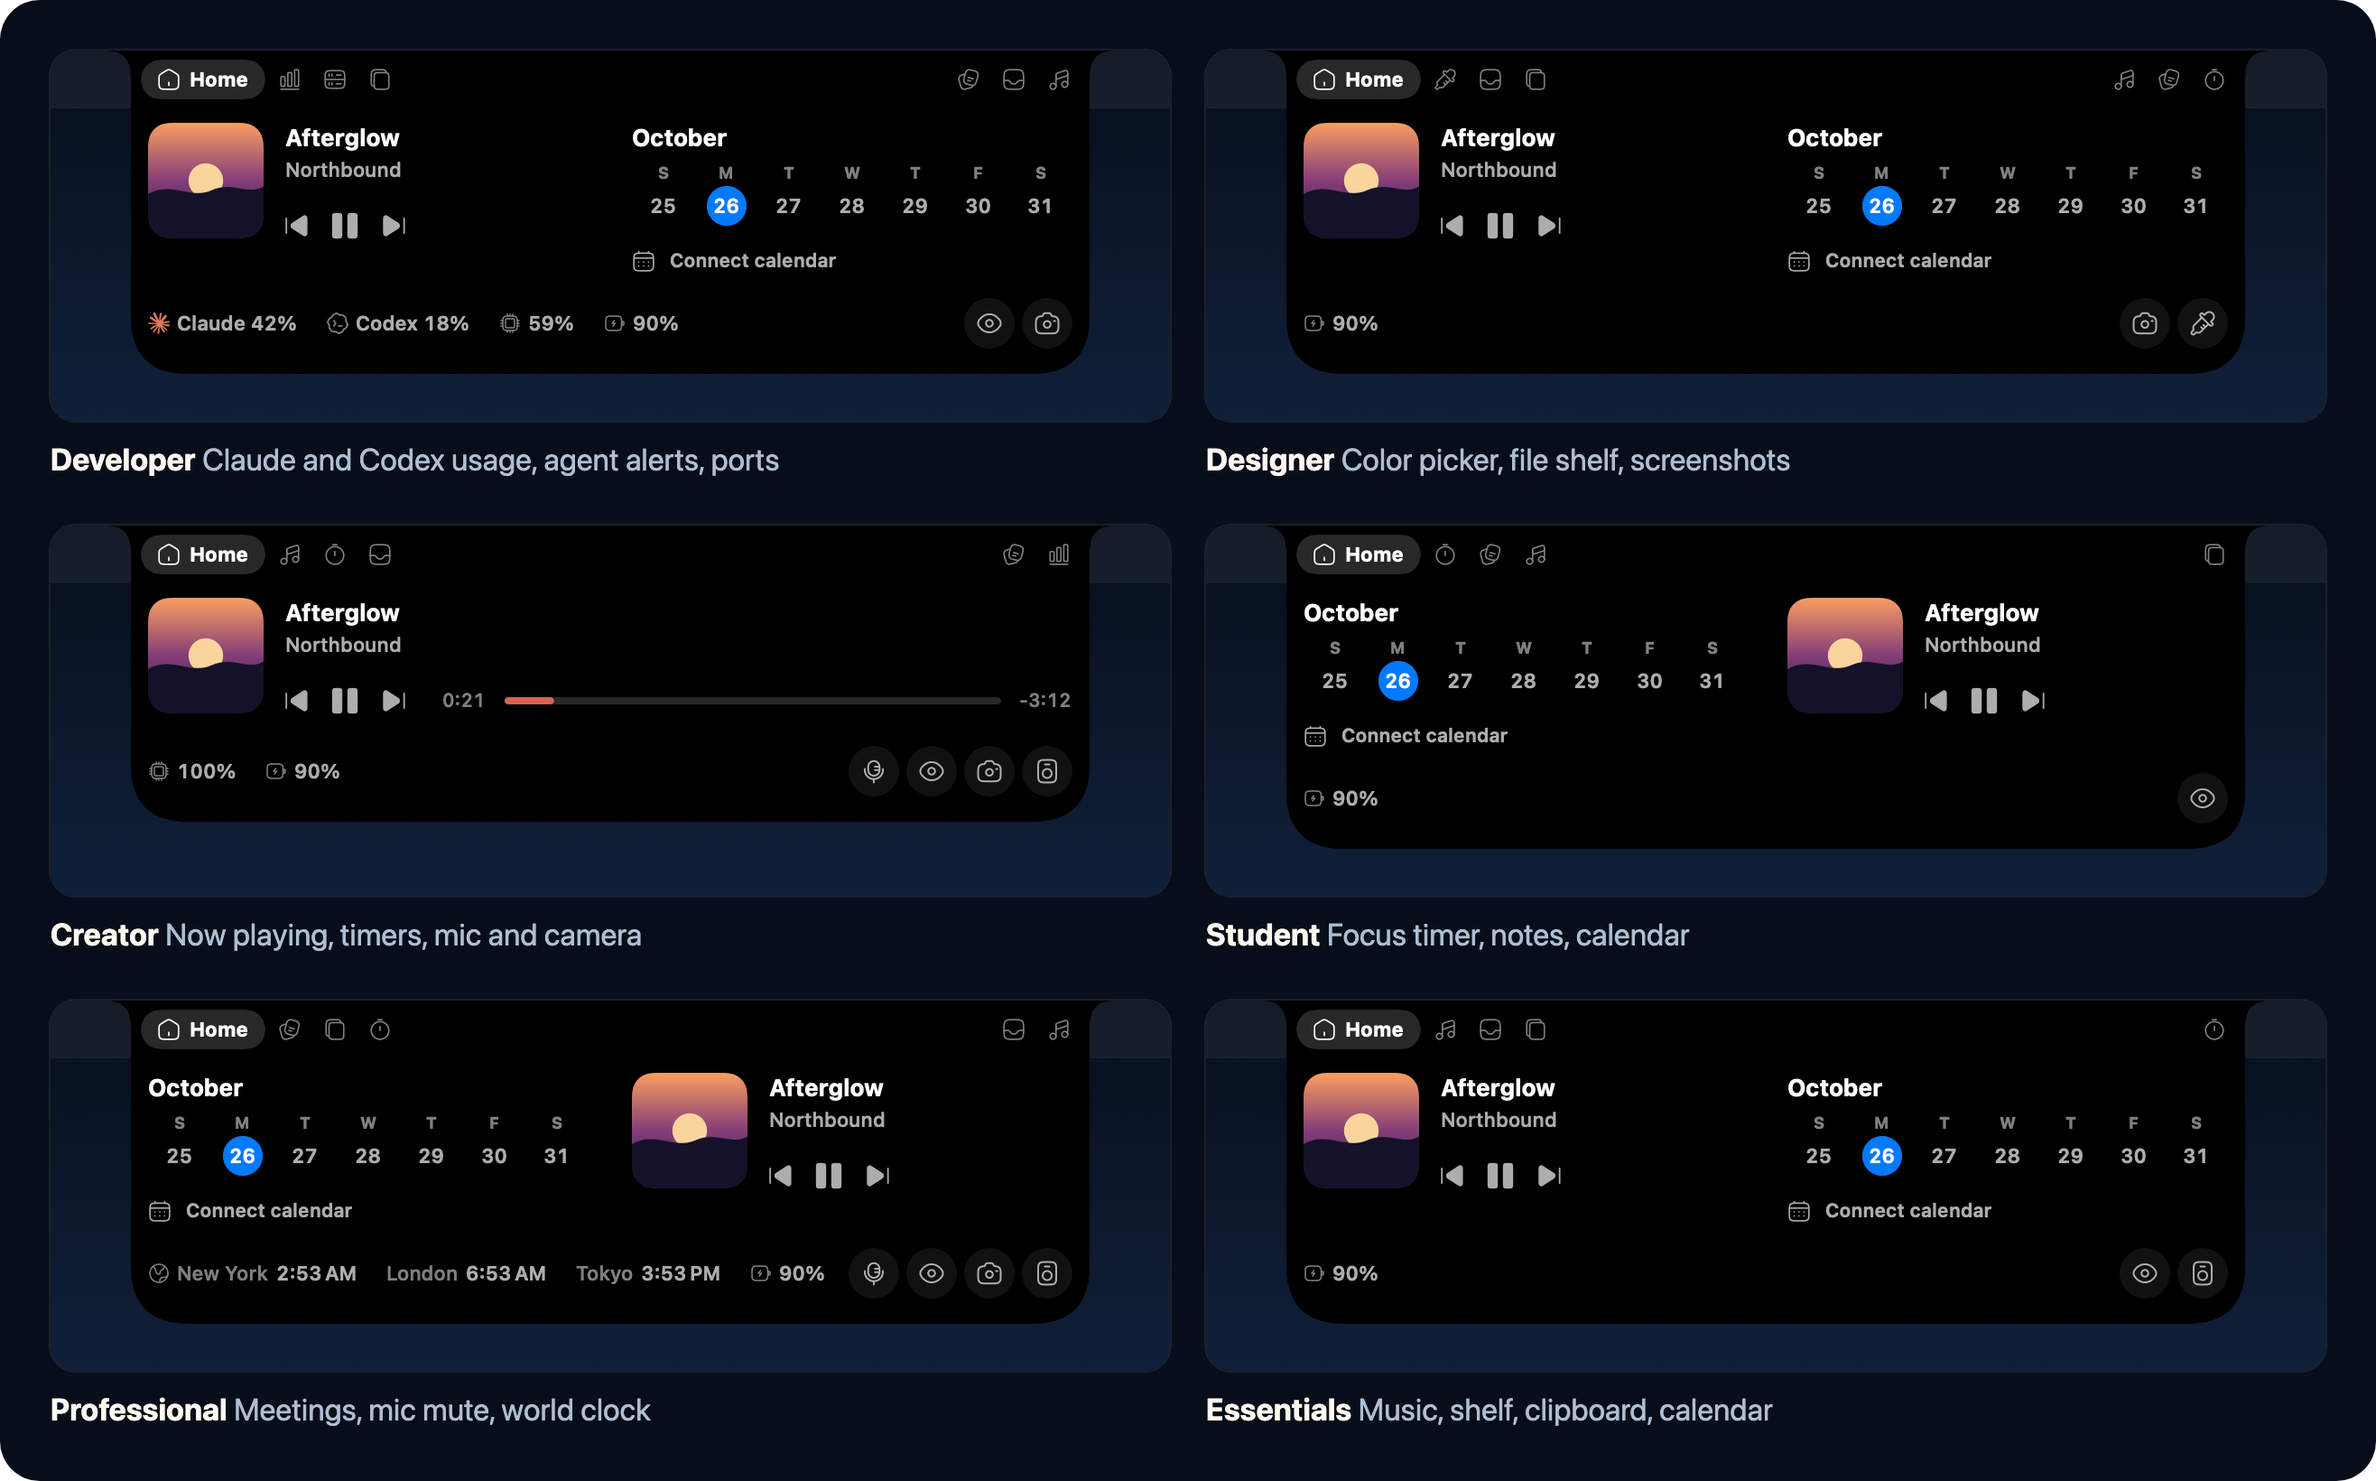
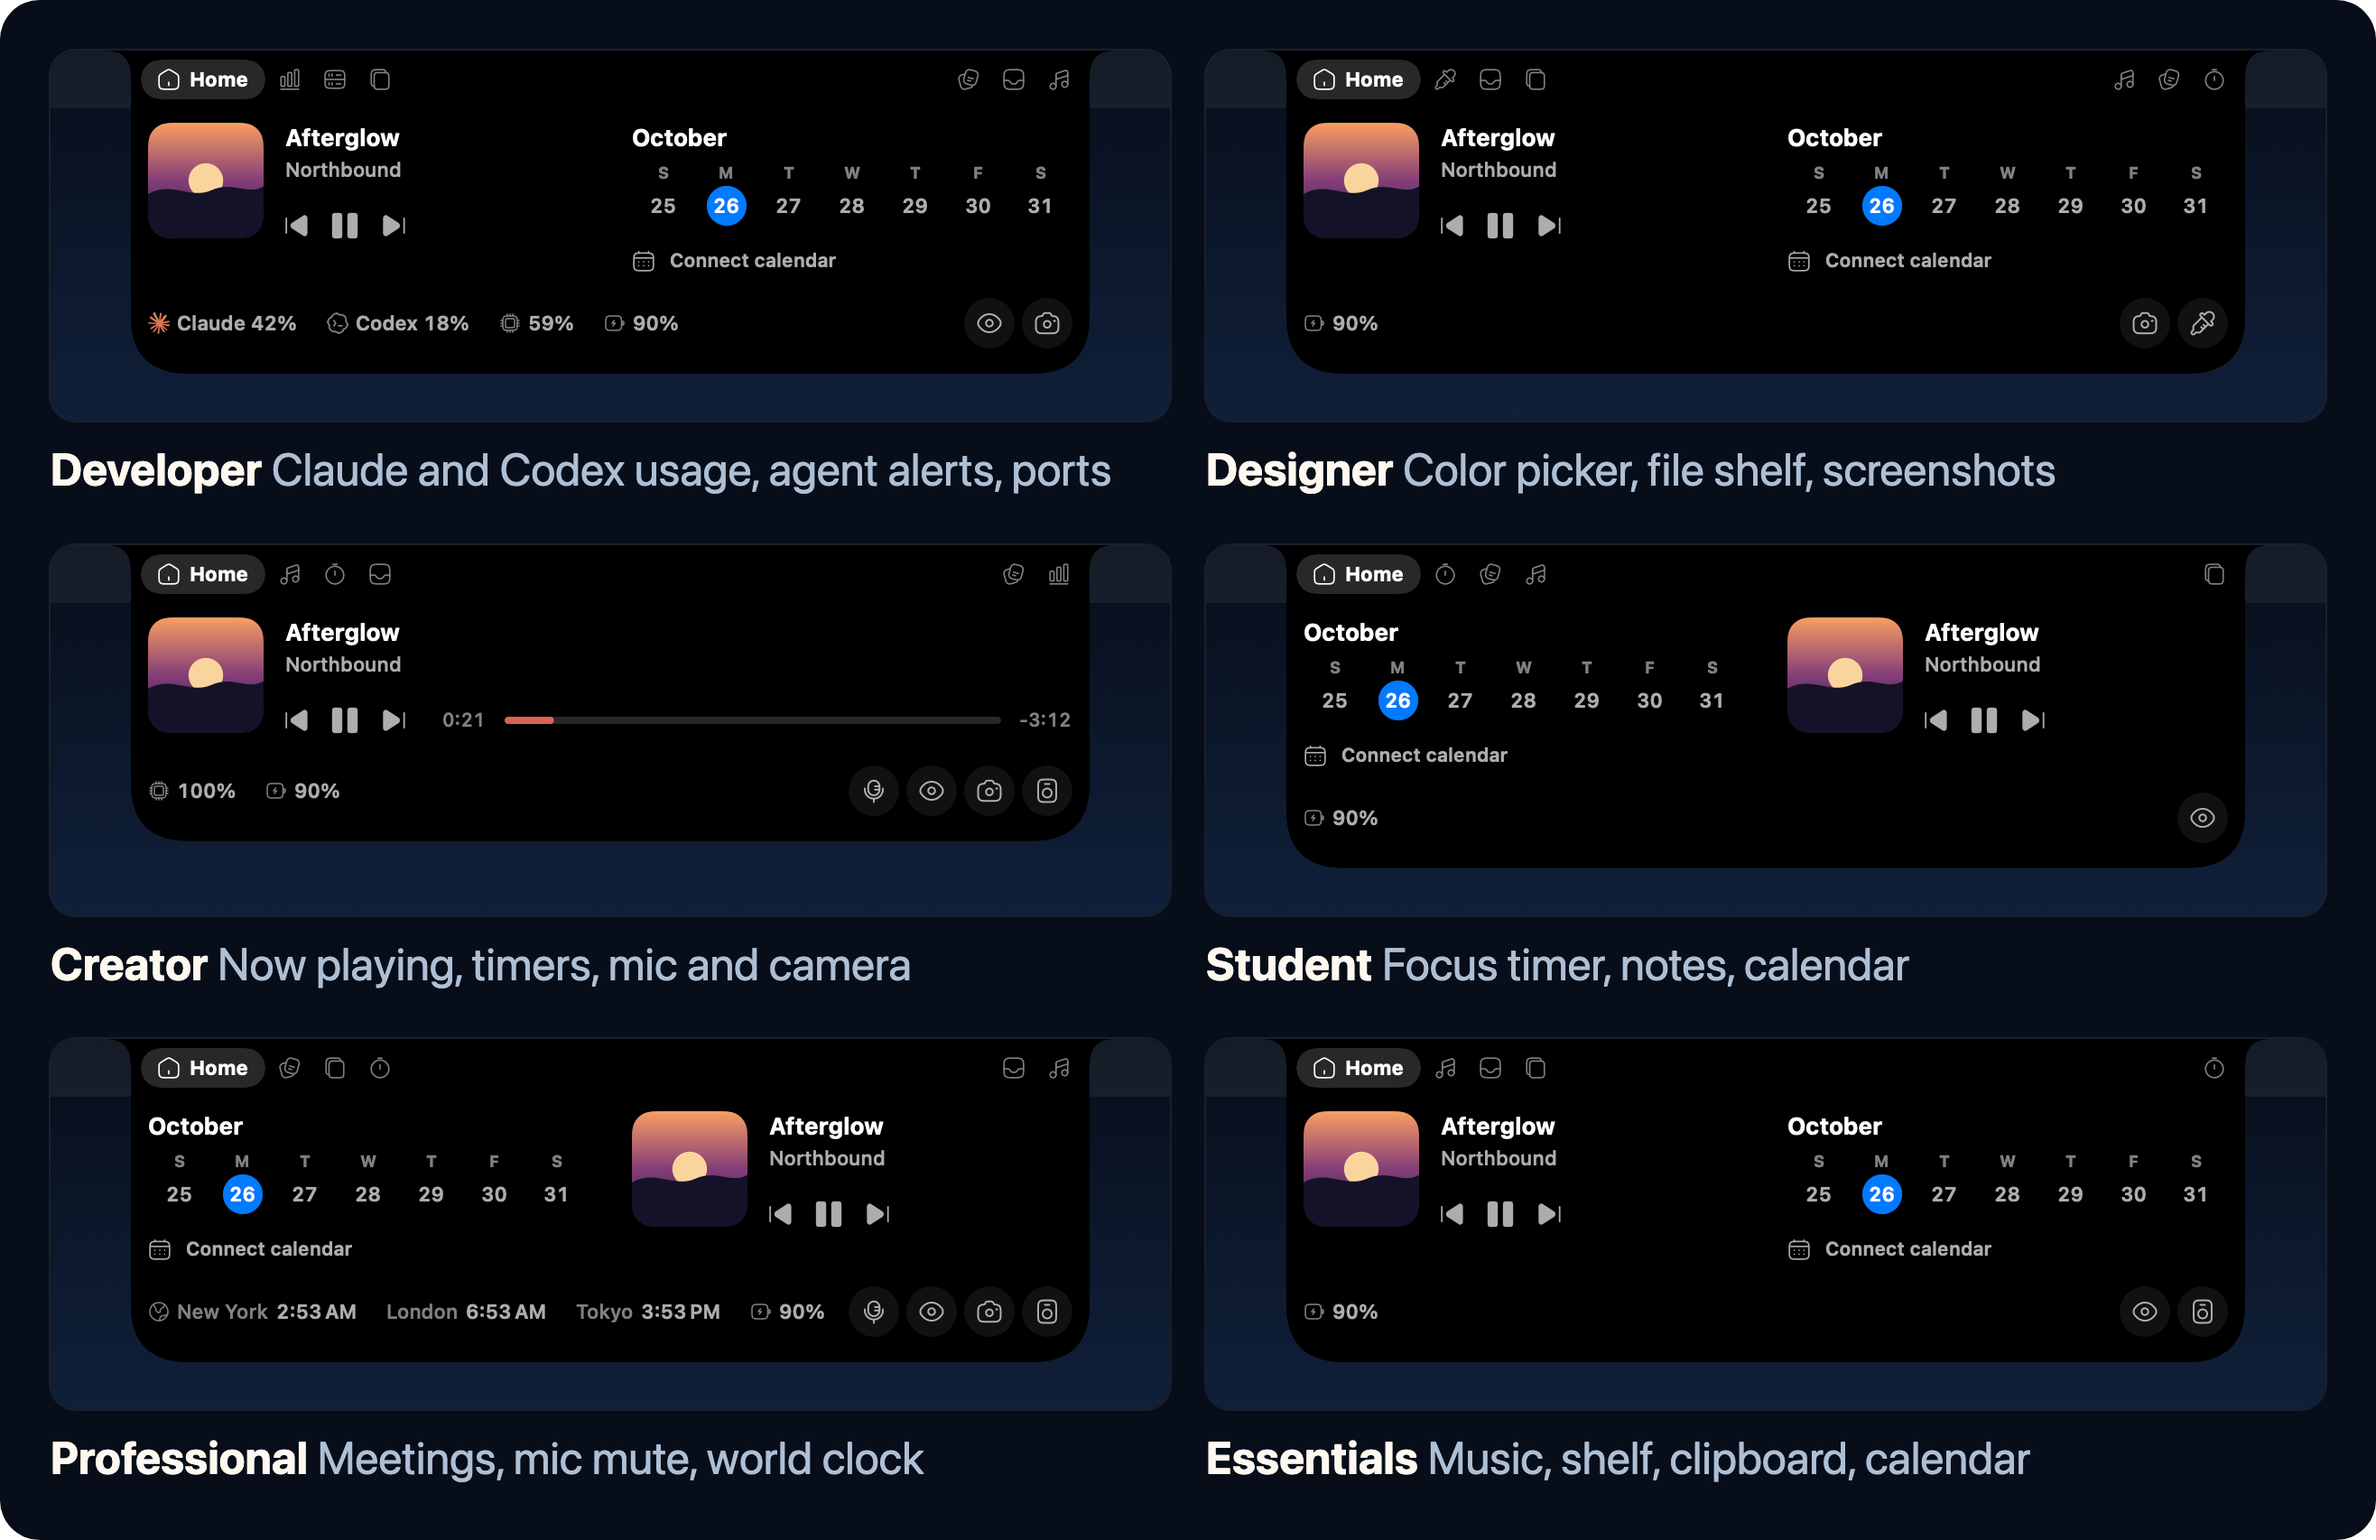
Tighten the README loop and enlarge the persona captions

diff --git a/video/src/Root.tsx b/video/src/Root.tsx
@@ -8,7 +8,7 @@ export const RemotionRoot: React.FC = () => {
     <>
       <Composition id="LedgeShowreel" component={Showreel} durationInFrames={1260} fps={30} width={1920} height={1080} />
       <Composition id="LedgeOneTake" component={OneTake} durationInFrames={870} fps={30} width={1920} height={1080} />
-      <Composition id="ReadmeLoop" component={ReadmeLoop} durationInFrames={LOOP_FRAMES} fps={30} width={1280} height={500} />
+      <Composition id="ReadmeLoop" component={ReadmeLoop} durationInFrames={LOOP_FRAMES} fps={30} width={1280} height={440} />
       <Composition id="ReadmeMoments" component={ReadmeMoments} durationInFrames={1} fps={30} width={MOMENTS_WIDTH} height={MOMENTS_HEIGHT} />
       <Composition id="ReadmePersonas" component={ReadmePersonas} durationInFrames={1} fps={30} width={PERSONAS_WIDTH} height={PERSONAS_HEIGHT} />
     </>

diff --git a/video/src/readme/Readme.tsx b/video/src/readme/Readme.tsx
@@ -147,7 +147,7 @@ export const ReadmePersonas: React.FC = () => (
     {PERSONAS.map((p) => (
       <div key={p.name}>
         <Still s={shot(p.src, 1118, p.h)} width={1240} height={410} />
-        <div style={{...caption, marginBottom: 50}}>
+        <div style={{...caption, fontSize: 50, marginBottom: 50}}>
           <span style={label}>{p.name}</span> <span style={{color: C.mist}}>{p.leads}</span>
         </div>
       </div>
@@ -155,4 +155,4 @@ export const ReadmePersonas: React.FC = () => (
   </AbsoluteFill>
 );
 export const PERSONAS_WIDTH = 2 * 1240 + 40 + 2 * PAD;
-export const PERSONAS_HEIGHT = 3 * (410 + 116) - 50 + 2 * PAD;
+export const PERSONAS_HEIGHT = 3 * (410 + 138) - 50 + 2 * PAD; // caption: 50px type at 1.35, 20 above, 50 below
